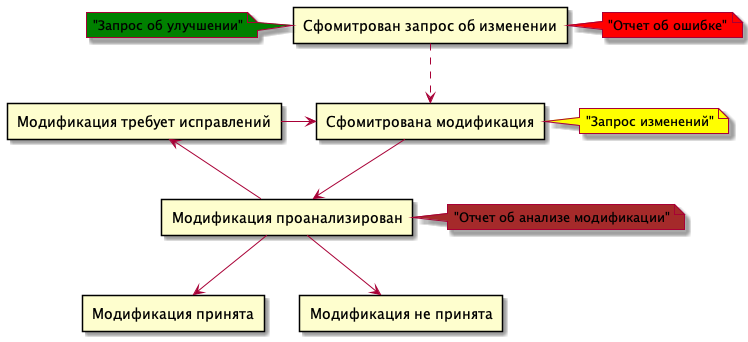
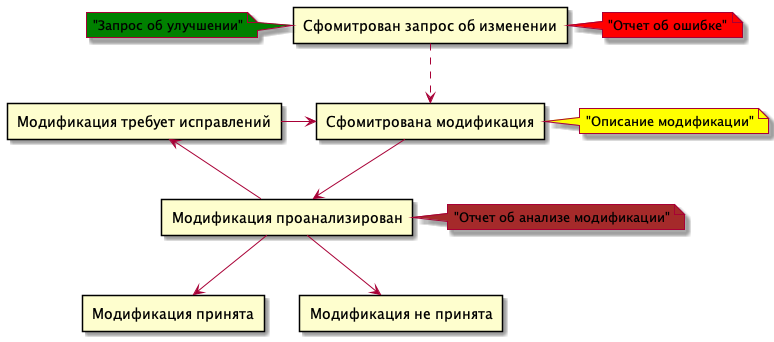
complete section5. todo: templates

diff --git a/subs/section_5.tex b/subs/section_5.tex
@@ -2,4 +2,142 @@
 %! Date = 10/10/2021
 
 \pagebreak
+
+
 \section{Формирование требований к содержанию и оформлению, разработка шаблонов документов и примеров их заполнения}
+
+\begin{itemize}
+    \item План сопровождения. Пример оформления приведен в Приложении 1
+    \begin{enumerate}
+        \item введение:
+        \begin{enumerate}
+            \item описание сопровождаемой системы;
+        \end{enumerate}
+        \item концепция сопровождения:
+        \begin{enumerate}
+            \item описание концепции;
+            \item пример практического применения процесса сопровождения;
+        \end{enumerate}
+
+        \item организационные работы и работы по сопровождению:
+        \begin{enumerate}
+            \item обязанности сопроводителя;
+            \item обязанности разработчика;
+            \item обязанности пользователя;
+        \end{enumerate}
+
+        \item ресурсы:
+        \begin{enumerate}
+            \item программные средства разработки и сопровождения;
+            \item технические средства разработки и сопровождения;
+            \item шаблоны документов:
+            \begin{enumerate}
+                \item Отчет о проблеме
+                \item Запрос об улучшении
+                \item Описание модификации
+                \item Отчет об анализе модификации
+                \item Отчет об изменениях в версии
+            \end{enumerate}
+            \item дополнительные ресурсы (при необходимости):
+        \end{enumerate}
+
+        \item правила публикации изменений продукта в новых версиях;
+    \end{enumerate}
+
+    \item Отчет о проблеме -- публикуется на ресурсе отслеживания проблем.
+    Оформляется согласно шаблону, приведенному в Приложении 2
+    \begin{enumerate}
+        \item информация об авторе
+        \item название проблемы
+        \item цифровой идентификатор
+        \item описание окружения, где проблема проявилась
+        \item описание версии продукта
+        \item конфигурация продукта
+        \item описание проблемы
+        \item шаги для воспроизведения проблемы
+        \item дополнительная информация (если необходимо)
+    \end{enumerate}
+
+    \item Запрос об улучшении -- публикуется на ресурсе отслеживания проблем.
+    Офомляется согласно шаблону, приведенному в Приложении 3
+    \begin{enumerate}
+        \item информация об авторе
+        \item название улучшения
+        \item цифровой идентификатор
+        \item цель улушения
+        \item технические детали улучшения
+        \item дополнительная информация (если необходимо)
+    \end{enumerate}
+
+    \item Описание модификации -- публикуется на ресурсе совместной разработки ПО.
+    Офомляется согласно шаблону, приведенному в Приложении 4
+    \begin{enumerate}
+        \item название модификации
+        \item информация об авторе модификации
+        \item цифровой идентификатор ассоциированного отчета о проблеме (если существует)
+        \item цифровой идентификатор ассоциированного запроса об улучшении (если существует)
+        \item текстовое описение модификации
+        \item список изменений (серия исправлений в исходном коде)
+    \end{enumerate}
+
+
+    \item Отчет об анализе модификации -- публикуется на ресурсе совместной разработки ПО.
+    Офомляется согласно шаблону, приведенному в Приложении 5
+    \begin{enumerate}
+        \item информация об авторе;
+        \item текстовое описание мнения автора;
+        \item комментарии к изменениям:
+        \begin{enumerate}
+            \item запросы на исправления ошибок в изменениях со ссылками на места изменений
+            \item запросы на улучшения в изменених со ссылками на места изменений
+            \item запросы на разъяснения изменений со ссылками на места изменений
+        \end{enumerate}
+        \item причина отказа в принятии модификации (если существует)
+    \end{enumerate}
+
+
+    \item Отчет об изменениях в версии. Пример оформления приведен в приложении 6
+    \begin{enumerate}
+        \item список исправлений ошибок
+        \item список улучшений
+        \item список исправлений ошибок и улучшений, не вошедших в версию
+        \item список неисправленных ошибок
+    \end{enumerate}
+\end{itemize}
+
+Требования к оформлению Плана сопровождения и Отчета об изменениях:
+\begin{itemize}
+    \item Шрифт: Times New Roman;
+    \item Цвет текста: черный;
+    \item Кегль:
+    \begin{itemize}
+        \item Заголовок 1: 24 пт;
+        \item Заголовок 2: 18 пт;
+        \item Заголовок 3: 16 пт;
+        \item Заголовок 4: 14 пт;
+        \item Обычный текст: 12 пт.
+    \end{itemize}
+    \item Междустрочный интервал: 1,15;
+    \item Отступы перед и после абзаца:
+    \begin{itemize}
+        \item Заголовок 1: 24 пт и 6 пт;
+        \item Заголовок 2: 18 пт и 6 пт;
+        \item Заголовок 3: 16 пт и 4 пт;
+        \item Заголовок 4: 14 пт и 4 пт;
+        \item Текст и элементы списка: 0 пт;
+    \end{itemize}
+    \item Поля:
+    \begin{itemize}
+        \item Слева: 3 см;
+        \item Справа: 2 см;
+        \item Сверху: 2 см;
+        \item Снизу: 2 см.
+    \end{itemize}
+    \item Выравнивание по ширине;
+    \item Для выделения в тексте использовать полужирный шрифт;
+    \item Для терминов использование курсивный шрифт;
+    \item Для нумерованных списков используется вложенная нумерация арабскими числами;
+\end{itemize}
+
+Остальные документы форматируются согласно приведенным Markdown-шаблонам.
+

diff --git a/subs/section_4.tex b/subs/section_4.tex
@@ -26,7 +26,7 @@
 
     \item Запрос об улучшении -- описывает требования к улучшению продукта, но не конкретные изменения
 
-    \item Модификация -- описывает изменения в продукте, предполагаемые к включению в следующей версии продукта
+    \item Описание модификации -- описывает изменения в продукте, предполагаемые к включению в следующей версии продукта
 
     \item Отчет об анализе модификации -- описывает мнение отвественного (авторитетного) лица касательно Модификации
 
